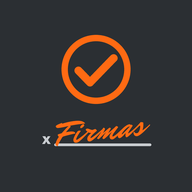
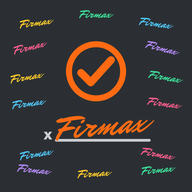
Nombre Firmax e icono con firmas de colores

diff --git a/index.html b/index.html
@@ -4,13 +4,13 @@
 <meta charset="utf-8">
 <meta name="viewport" content="width=device-width, initial-scale=1, viewport-fit=cover">
 <meta name="theme-color" content="#1f2937">
-<title>Firmas</title>
+<title>Firmax</title>
 <link rel="manifest" href="manifest.webmanifest">
 <link rel="icon" type="image/png" sizes="192x192" href="icons/icon-192.png">
 <link rel="apple-touch-icon" href="icons/apple-touch-icon.png">
 <meta name="mobile-web-app-capable" content="yes">
 <meta name="apple-mobile-web-app-capable" content="yes">
-<meta name="apple-mobile-web-app-title" content="Firmas">
+<meta name="apple-mobile-web-app-title" content="Firmax">
 <style>
 :root{--ink:#111827;--muted:#6b7280;--bg:#f3f4f6;--acc:#c2410c;--acc2:#9a3412}
 *{box-sizing:border-box}
@@ -31,8 +31,8 @@ footer{margin-top:auto;text-align:center;color:var(--muted);font-size:13px;paddi
 </head>
 <body>
 <main>
-  <img class="logo" src="icons/firmas-logo.png" alt="Firmas">
-  <h1>Firmas</h1>
+  <img class="logo" src="icons/firmas-logo.png" alt="Firmax">
+  <h1>Firmax</h1>
   <p class="sub">Elige qué quieres hacer</p>
   <a class="big pri" href="hoja.html"><span class="ic">📋</span><span><b>Hoja de firmas</b><span class="d">Supplemental Sign-In Sheet · Daily Pre-Task Planning</span></span></a>
   <a class="big" href="documento.html"><span class="ic">✍</span><span><b>Firmar otro documento</b><span class="d">Abre un PDF, imagen o foto y añade firmas, nombres y fechas</span></span></a>

diff --git a/documento.html b/documento.html
@@ -4,7 +4,7 @@
 <meta charset="utf-8">
 <meta name="viewport" content="width=device-width, initial-scale=1, viewport-fit=cover">
 <meta name="theme-color" content="#1f2937">
-<title>Firmas – Documento</title>
+<title>Firmax – Documento</title>
 <link rel="manifest" href="manifest.webmanifest">
 <link rel="icon" type="image/png" sizes="192x192" href="icons/icon-192.png">
 <link rel="apple-touch-icon" href="icons/apple-touch-icon.png">

diff --git a/hoja.html b/hoja.html
@@ -10,7 +10,7 @@
 <link rel="apple-touch-icon" href="icons/apple-touch-icon.png">
 <meta name="mobile-web-app-capable" content="yes">
 <meta name="apple-mobile-web-app-capable" content="yes">
-<meta name="apple-mobile-web-app-title" content="Firmas">
+<meta name="apple-mobile-web-app-title" content="Firmax">
 <meta name="application-name" content="Firmas">
 <title>Hoja de firmas – Daily Pre-Task Planning</title>
 <style>

diff --git a/sw.js b/sw.js
@@ -1,5 +1,5 @@
 /* Service worker – Firmas Drywall Enterprise (offline) */
-const CACHE = 'firmas-v5';
+const CACHE = 'firmax-v6';
 // Imprescindibles: si falla alguno, la instalación falla
 const CORE = [
  "./",
